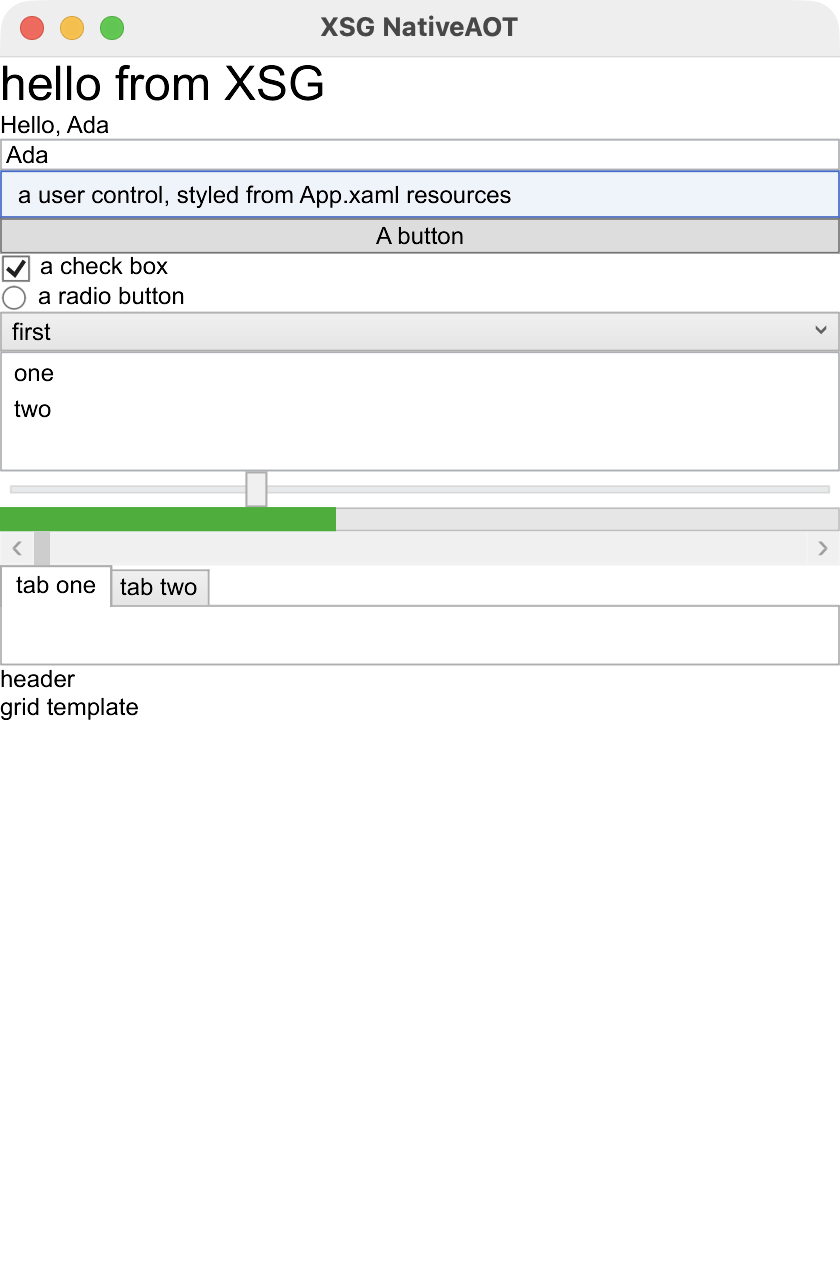
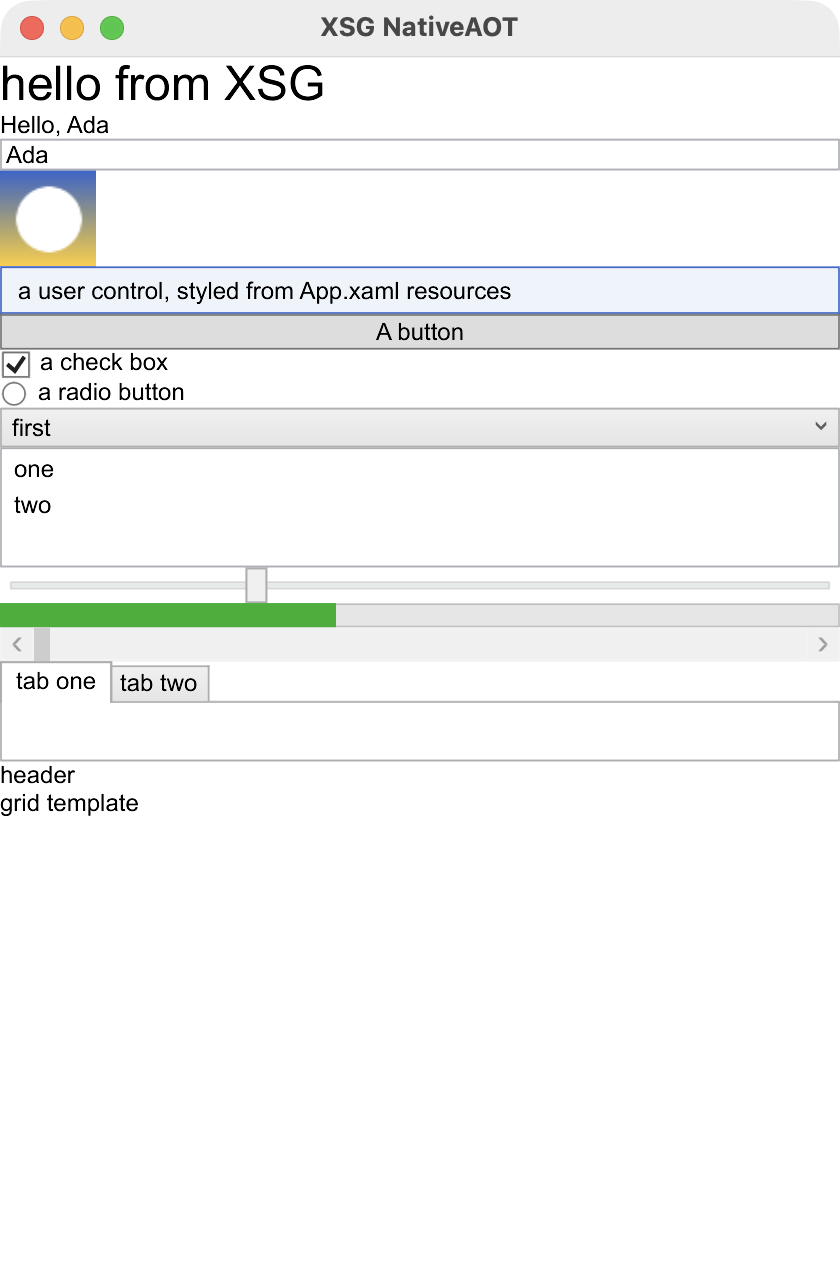
Fix XSG resource embedding in the NativeAOT sample
- Move LibreWPF to 3b586d1d3 (embed Resource items; resolve parenthesized
  binding paths in XSG).
- Add Assets/logo.png as a Resource and an <Image> to MainWindow.xaml, so
  the sample reads a decoded PNG from XsgAot.g.resources under JIT and
  NativeAOT.
- Import the SDK resource targets from the checkout in XsgLocal.targets
  until the next SDK package carries them.
- Self-check that the image decodes to a 48x48 BitmapImage, and document
  the Resource and binding-path rows in README.
- Regenerate the screenshots.

Changed region(s): [[0.0, 0.125, 1.0, 0.5938], [0.0, 0.5938, 0.1548, 0.6562]]

diff --git a/samples/XsgNativeAot/MainWindow.xaml b/samples/XsgNativeAot/MainWindow.xaml
@@ -9,6 +9,7 @@
     <TextBlock x:Name="Status" Text="hello from XSG" FontSize="24" Foreground="Black" />
     <TextBlock x:Name="Greeting" Text="{Binding Person.Greeting}" />
     <TextBox x:Name="NameBox" Text="{Binding Person.Name, Mode=TwoWay, UpdateSourceTrigger=PropertyChanged}" />
+    <Image x:Name="Logo" Source="Assets/logo.png" Width="48" Height="48" HorizontalAlignment="Left" />
     <local:Card x:Name="TheCard" Title="a user control, styled from App.xaml resources" />
     <Button x:Name="Action" Content="A button" />
     <CheckBox Content="a check box" IsChecked="True" />

diff --git a/samples/XsgNativeAot/SelfCheck.cs b/samples/XsgNativeAot/SelfCheck.cs
@@ -91,6 +91,11 @@ internal static class SelfCheck
         Check("user control", card.Title.StartsWith("a user control") && cardBorder?.Background is System.Windows.Media.SolidColorBrush { Color: { R: 0xEE, G: 0xF3, B: 0xFB } },
             $"title='{card.Title}' background={cardBorder?.Background}");
 
+        // 6. A pack resource: <Image Source="Assets/logo.png"/> reads the image from the assembly's .g.resources, written by the XSG resource target.
+        var logo = (Image)window.FindName("Logo")!;
+        var bitmap = logo.Source as System.Windows.Media.Imaging.BitmapSource;
+        Check("image resource", bitmap is { PixelWidth: 48, PixelHeight: 48 } && logo.ActualWidth == 48, $"source={bitmap?.GetType().Name} {bitmap?.PixelWidth}x{bitmap?.PixelHeight} element={logo.ActualWidth}x{logo.ActualHeight}");
+
         Console.WriteLine(ok ? "PASS" : "FAIL");
         Environment.ExitCode = ok ? 0 : 1;
     }

diff --git a/samples/XsgNativeAot/README.md b/samples/XsgNativeAot/README.md
@@ -31,6 +31,7 @@ ok   template initializer: rows=2 height0=Auto
 ok   startup uri: MainWindow is MainWindow
 ok   merged dictionary: AccentBrush=#FF3366CC CardPadding=8,4,8,4
 ok   user control: title='a user control, styled from App.xaml resources' background=#FFEEF3FB
+ok   image resource: source=BitmapImage 48x48 element=48x48
 PASS
 ```
 
@@ -71,6 +72,8 @@ its own: the three things a real application has that a lone window does not. No
 | Document viewers cannot load | `System.Printing` is C++/CLI and Windows-only; its portable implementation has 1 of 56 public types. ILC replaces every method that needs `XpsDocumentWriter` (`DocumentViewerBase`, `FlowDocumentReader`, ...) with a throwing stub, including the theme's `InitializeComponent`. | Printing stays Windows-only: `LibreWpfXsgExcludeTargetTypes` (comma-separated: a `;` starts an .editorconfig comment) leaves the styles of `DocumentViewer`, `FlowDocument*`, `FixedDocument*` out of this theme. |
 | Templates need more than `SetValue` | `FrameworkElementFactory` sets dependency properties only. | Three additive hooks: `SetInitializer` (fill a collection / set an object property after creation), `SetAttacher` (`Track.Thumb`, named `RowDefinition`s: the item is a real, named, targetable template node), `SetCreator` (`new T()` instead of `Activator.CreateInstance`). The content property written as an element (`<Border.Child>`) becomes an ordinary factory child. |
 | `StartupUri`, `ResourceDictionary Source=`, `UserControl` | BAML resolves them at run time with `Application.LoadComponent` and pack URIs: no resource to read. | Each `x:Class` root object except the `Application` (a window, page or user control that can be created without arguments) is registered by resource path (`RegisterComponent`) and `LoadComponent(Uri)` asks that registry first; `Source` is resolved at build time to a registry lookup; `Uri` values are typed. |
+| `<Image Source>` and other `Resource` items | The XSG path does not import `Microsoft.WinFX.targets`, so a `Resource` item is not embedded: nothing to read through `pack://application`. | `ProGPU.Wpf.Sdk.XamlSourceGeneratorResources.targets` (imported by `XsgLocal.targets` until the next SDK) writes `<AssemblyName>.g.resources` and embeds it; `ImageSource` text becomes `new BitmapImage(new Uri(...))`. |
+| Binding paths `(Owner.Member)`, `(prefix:Owner.Member)` | The run-time path parser knows no prefix and resolves by reflection: `(base:AccessibilitySwitches.X)` throws and the binding silently does not apply. | Resolved at build time (a `DependencyProperty`, or a static `PropertyInfo`). Nine paths name `internal` types only the in-box theme assemblies can see: reported as `LWXSG0008`, and their `TypeNameParserException` is the two first-chance exceptions that remain. |
 | A DataTrigger's `Value="True"` | `DefaultValueConverter.GetConverter` goes through the BAML known-type table, which `Activator`-creates `BooleanConverter`. | Under NativeAOT only (`RuntimeFeature.IsDynamicCodeSupported` is false) it uses `TypeDescriptor`'s intrinsic converters first. |
 | `StaticResource` of a key defined in a local `.Resources` | The key exists on the instance / style, not in the theme dictionary. | Looked up when applied (`SetResourceReference`, `DynamicResourceExtension`); `Style.Resources` / `ControlTemplate.Resources` / `Grid.Resources` are generated, and the generated dictionary keeps a scope stack for what is being built. |
 
@@ -88,7 +91,7 @@ its own: the three things a real application has that a lone window does not. No
   (`GlyphRun..ctor(TtfFont, ...)`, `GlyphRun.FontSize` / `GlyphIndices`, `DrawingContext..ctor(ProGPU.Scene.DrawingContext)`,
   `DashStyle..ctor(double[], double)`, `FontFamily.NativeFont`, `BitmapSource.GpuTexture`). Checked: this window draws all its text, borders,
   gradients and controls identically to the JIT build (the pixel comparison above), so none of them is on the path these controls take, including
-  `ProGpuCompositionCommandSink.DrawGlyphRun`. Not exercised by this window: images (`BitmapSource.GpuTexture`), dashed pens (`DashStyle`),
+  `ProGpuCompositionCommandSink.DrawGlyphRun`. The window's `<Image>` (a decoded PNG from `.g.resources`) is drawn and is part of the identical pixels, so `BitmapSource.GpuTexture` is not on the path an `Image` takes either. Not exercised by this window: dashed pens (`DashStyle`),
   drawing contexts created from ProGPU scenes, `FontFamily.NativeFont`; they stay open until something draws them.
 - ILC still reports trim/AOT analysis warnings (`IL3053`) for WindowsBase, PresentationCore, PresentationFramework, System.Xaml;
   paths this app does not use (XAML/BAML loading, `TextRange` serialization, …) were not exercised.
